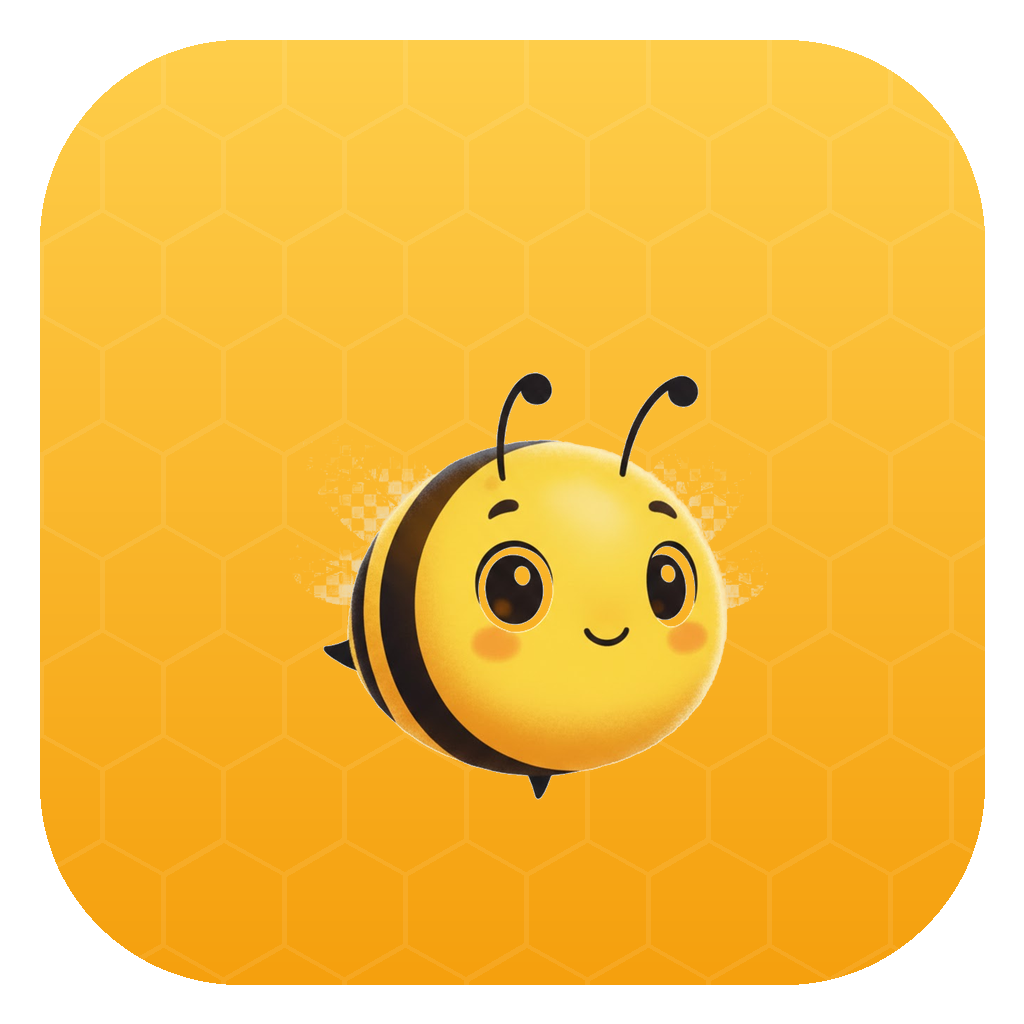
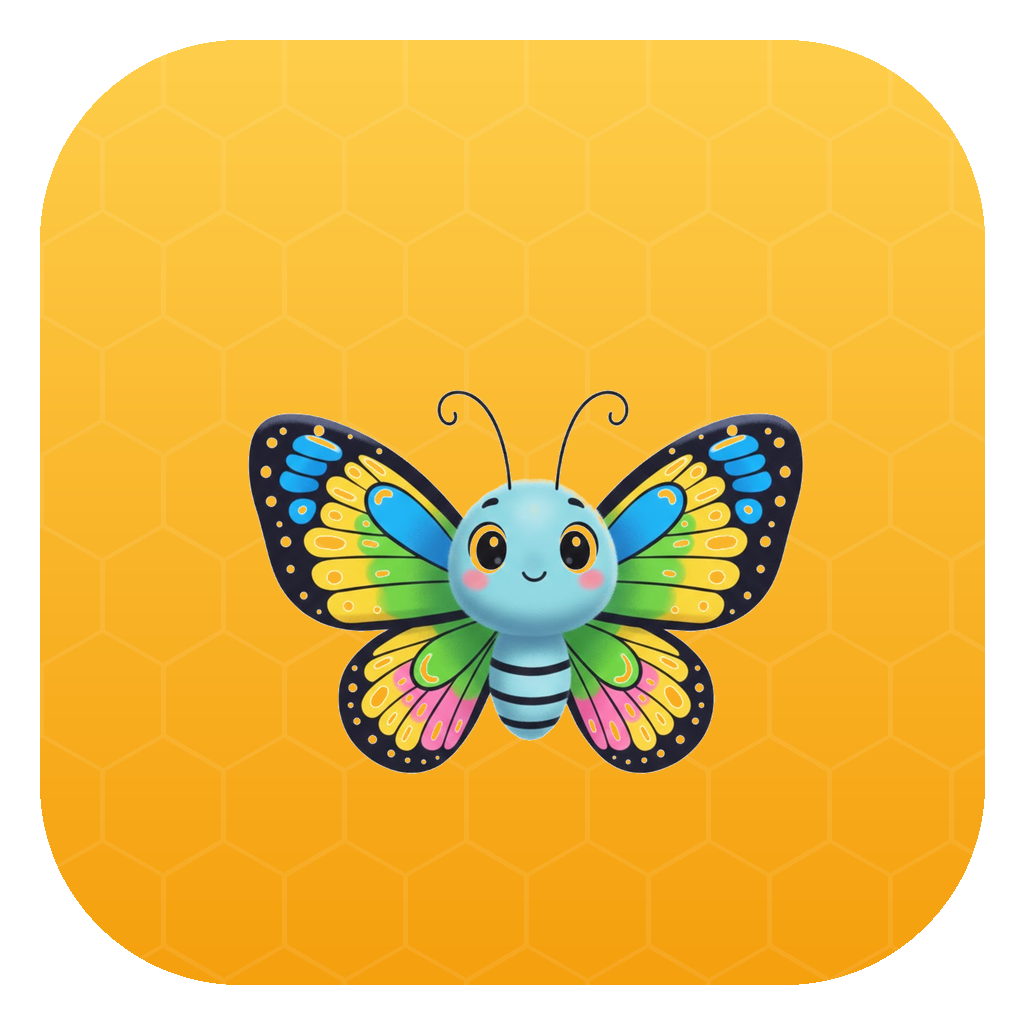
Rebrand to butterflies

Changed region(s): [[0.2188, 0.3438, 0.8125, 0.7812]]

diff --git a/components/RulesScreen.tsx b/components/RulesScreen.tsx
@@ -19,13 +19,14 @@ export default function RulesScreen({ onBack }: { onBack: () => void }) {
         {/* Come si gioca */}
         <Section title="🎮 How to Play">
           <p className="text-amber-200 text-sm leading-relaxed">
-            Bees appear randomly on a 3×3 grid. Tap them before they disappear to score points.
-            Watch out for red bees — they cost you points!
+            Butterflies appear randomly on a 3×3 grid. Tap them before they disappear to score points.
+            Watch out for red butterflies — they cost you points!
           </p>
           <div className="mt-3 space-y-2">
-            <BeeRule emoji="🐝" label="Normal bee" desc="Visible for 850–1500ms" points="+1 point" color="#fbbf24" />
-            <BeeRule emoji="🐝" label="Fast bee" desc="Visible for 650–1200ms, moves faster" points="+3 points" color="#3b82f6" fast />
-            <BeeRule emoji="🔴" label="Red bee" desc="Avoid it! Costs you points" points="-2 points" color="#dc2626" />
+            <BeeRule emoji="🦋" label="Normal butterfly" desc="Visible for 850–1500ms" points="+1 point" color="#fbbf24" />
+            <BeeRule emoji="🦋" label="Fast butterfly" desc="Visible for 650–1200ms, moves faster" points="+3 points" color="#3b82f6" fast />
+            <BeeRule emoji="🔴" label="Red butterfly" desc="Avoid it! Costs you points" points="-2 points" color="#dc2626" />
+            <BeeRule emoji="💜" label="Super butterfly" desc="Rare bonus butterfly" points="+0.10 USDC" color="#a855f7" />
           </div>
         </Section>
 
@@ -102,17 +103,17 @@ export default function RulesScreen({ onBack }: { onBack: () => void }) {
           <div className="grid grid-cols-3 gap-2 text-center">
             <div className="rounded-xl p-2 border border-green-900" style={{ background: "#0a1a0a" }}>
               <div className="text-green-400 text-xs">🟢 Easy</div>
-              <div className="text-green-300 font-black">0.04</div>
+              <div className="text-green-300 font-black">{DIFFICULTY_CONFIG.easy.fee.toFixed(3)}</div>
               <div className="text-green-800 text-xs">USDC</div>
             </div>
             <div className="rounded-xl p-2 border border-yellow-900" style={{ background: "#1a1500" }}>
               <div className="text-yellow-400 text-xs">🟡 Medium</div>
-              <div className="text-yellow-300 font-black">0.05</div>
+              <div className="text-yellow-300 font-black">{DIFFICULTY_CONFIG.medium.fee.toFixed(3)}</div>
               <div className="text-yellow-800 text-xs">USDC</div>
             </div>
             <div className="rounded-xl p-2 border border-red-900" style={{ background: "#1a0a0a" }}>
               <div className="text-red-400 text-xs">🔴 Hard</div>
-              <div className="text-red-300 font-black">0.06</div>
+              <div className="text-red-300 font-black">{DIFFICULTY_CONFIG.hard.fee.toFixed(3)}</div>
               <div className="text-red-800 text-xs">USDC</div>
             </div>
           </div>

diff --git a/components/App.tsx b/components/App.tsx
@@ -91,7 +91,7 @@ export default function App() {
       {/* Title */}
       <div className="text-center">
         <div className="text-6xl mb-1" style={{ filter: "drop-shadow(0 0 20px #fbbf24)" }}>🐝</div>
-        <h1 className="text-3xl font-black text-white">Whack-a-Bee</h1>
+        <h1 className="text-3xl font-black text-white">Whack-a-Butterfly</h1>
       </div>
 
       {/* Prize Pool */}
@@ -146,9 +146,9 @@ export default function App() {
 
       {/* Quick rules */}
       <div className="w-full max-w-sm text-xs text-amber-800 grid grid-cols-2 gap-1">
-        <div>🐝 Normal bee → +1 pt</div>
-        <div>⚡ Fast bee → +3 pts</div>
-        <div>🔴 Red bee → -2 pts</div>
+        <div>🦋 Normal butterfly → +1 pt</div>
+        <div>⚡ Fast butterfly → +3 pts</div>
+        <div>🔴 Red butterfly → -2 pts</div>
         <div>📖 <button onClick={() => setScreen("rules")} className="underline text-amber-600">All rules</button></div>
       </div>
 
@@ -178,9 +178,9 @@ function NotConnected() {
   return (
     <div className="min-h-dvh flex flex-col items-center justify-center p-6 text-center" style={{ background: "#1a0a00" }}>
       <div className="text-6xl mb-4">🐝</div>
-      <h1 className="text-2xl font-black text-white mb-2">Whack-a-Bee</h1>
+      <h1 className="text-2xl font-black text-white mb-2">Whack-a-Butterfly</h1>
       <p className="text-amber-400 text-sm mb-6">Open this app from Warpcast to play!</p>
-      <div className="text-xs text-amber-800 max-w-xs">Search "Whack-a-Bee" on Warpcast or open it via a cast.</div>
+      <div className="text-xs text-amber-800 max-w-xs">Search "Whack-a-Butterfly" on Warpcast or open it via a cast.</div>
     </div>
   );
 }

diff --git a/app/layout.tsx b/app/layout.tsx
@@ -4,11 +4,11 @@ import "./globals.css";
 const APP_URL = process.env.NEXT_PUBLIC_APP_URL || "https://whack-a-bee.vercel.app";
 
 export const metadata: Metadata = {
-  title: "🐝 Whack-a-Bee",
-  description: "Whack the bees, win prizes! Farcaster Mini App.",
+  title: "🦋 Whack-a-Butterfly",
+  description: "Catch butterflies, win prizes! Farcaster Mini App.",
   openGraph: {
-    title: "🐝 Whack-a-Bee",
-    description: "Whack the bees, win prizes!",
+    title: "🦋 Whack-a-Butterfly",
+    description: "Catch butterflies, win prizes!",
     images: [`${APP_URL}/og-image.png`],
   },
   other: {
@@ -16,10 +16,10 @@ export const metadata: Metadata = {
       version: "next",
       imageUrl: `${APP_URL}/og-image.png`,
       button: {
-        title: "🐝 Play Whack-a-Bee",
+        title: "🦋 Play Whack-a-Butterfly",
         action: {
           type: "launch_frame",
-          name: "Whack-a-Bee",
+          name: "Whack-a-Butterfly",
           url: APP_URL,
           splashImageUrl: `${APP_URL}/splash.png`,
           splashBackgroundColor: "#fbbf24",

diff --git a/components/GameScreen.tsx b/components/GameScreen.tsx
@@ -399,7 +399,7 @@ export default function GameScreen({ user, difficulty, onGameEnd }: Props) {
               >
                 {bee && (
                   <img
-                    src="/bee.png"
+                    src="/bf.png"
                     alt=""
                     className="w-14 h-14 select-none pointer-events-none"
                     style={{

diff --git a/app/globals.css b/app/globals.css
@@ -16,8 +16,8 @@ body {
 }
 
 :root {
-  --bee-yellow: #fbbf24;
-  --bee-dark: #92400e;
+  --butterfly-yellow: #fbbf24;
+  --butterfly-dark: #92400e;
   --bg-dark: #1a0a00;
   --bg-card: #2a1500;
   --border: #5d2e00;
